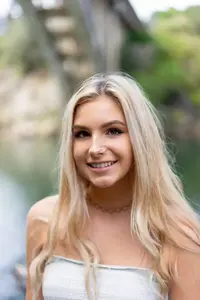
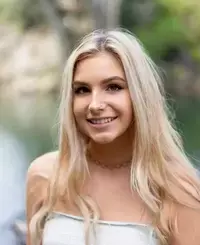
img changed

diff --git a/items/team/team.css b/items/team/team.css
@@ -26,11 +26,11 @@
                 min-height: 100%;
                 min-width: 100%;
                 position: absolute;
-                top: -9990px;
-                bottom: -9999px;
-                left: -9999px;
-                right: -9999px;
-                margin: auto;
+                top: 0;
+                bottom: 0;
+                left: -1px;
+                right: 0;
+                margin:;
             }
             /*img centering End*/
 
@@ -45,16 +45,16 @@
             overflow: hidden;
             position: relative;
             text-align: center;
-            box-shadow: 1px 1px 2px #11913c;
+            /*box-shadow: 1px 1px 2px #11913c;*/
             cursor: default;
         }
         .view .mask, .view .content {
-            width: 330px;
-            height: 330px;
+            width: 300px;
+            height: 300px;
             position: absolute;
-            /*overflow: hidden;*/
+            overflow: hidden;
             top: 0;
-            left: 0;
+            left: -8px;
             /*border: 4px solid green;*/
         }
 
